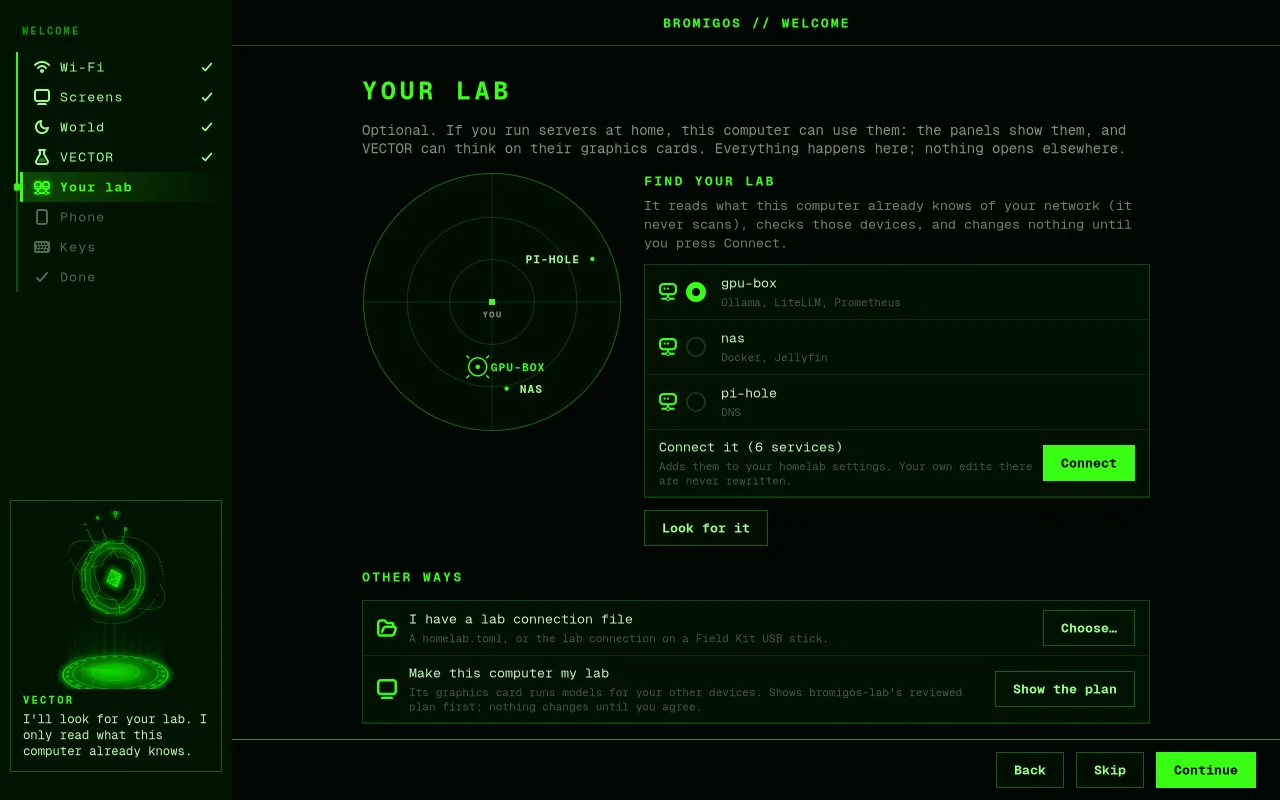
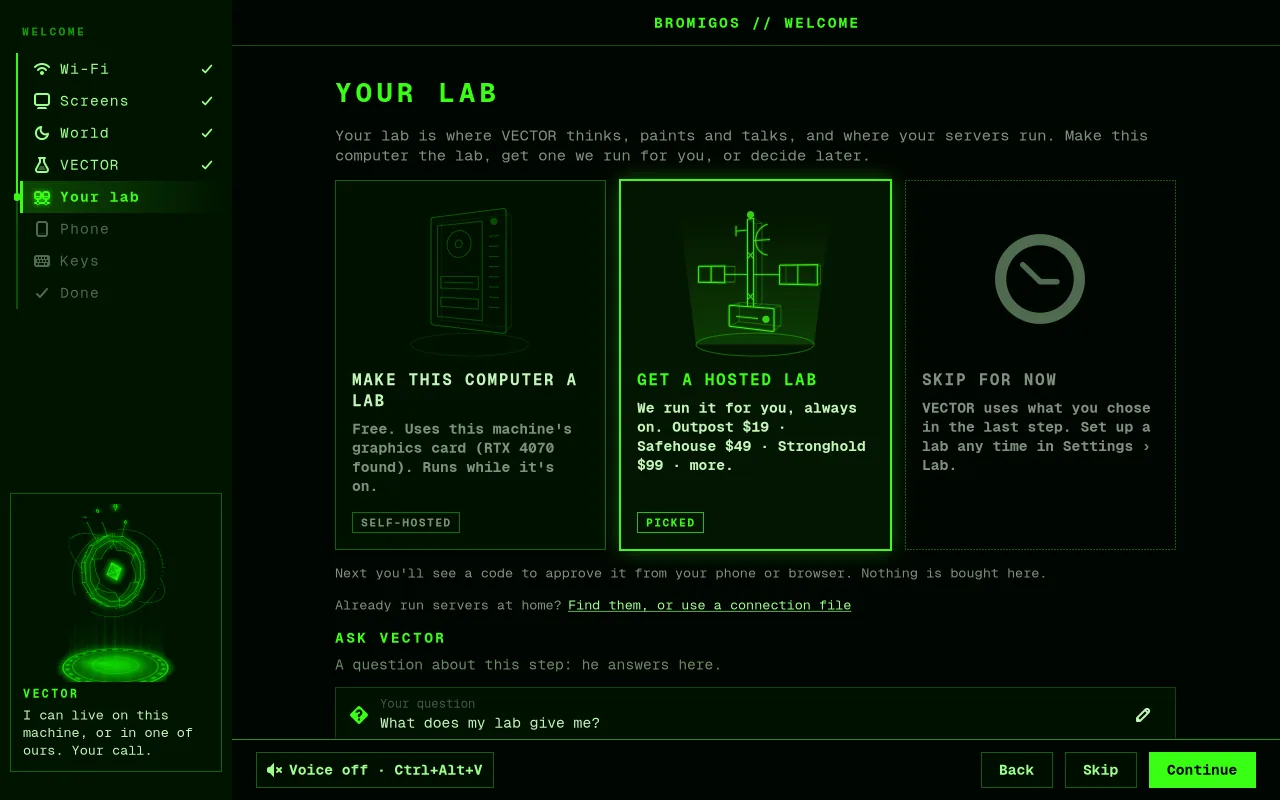
docs: the welcome tour's Your lab step: the three tiles, the link code, and its pictures
Claude-Session: https://claude.ai/code/session_01VEwEokvHM3hBoRnu81aYP9

diff --git a/manual/src/welcome-tour.md b/manual/src/welcome-tour.md
@@ -34,20 +34,50 @@ To take the tour again: Settings › About › **Welcome tour**, or run `bromigo
 
    ![VECTOR, your desk's AI: his brain (your lab, this computer, a service, not now) and his voice](images/welcome-tour-vector.webp)
 
-5. **Your lab**, all in the window:
-   - **Find** looks for your lab on your network. It only reads what this computer
+5. **Your lab**: where VECTOR thinks, paints and talks, and where your servers run. Three
+   tiles:
+   - **Make this computer a lab.** Free. It runs while this computer is on, and its
+     graphics card, if it has one, runs models for your other devices.
+   - **Get a hosted lab.** Bromigos runs it for you, always on: OUTPOST, SAFEHOUSE,
+     STRONGHOLD and more. You choose and pay on the website, not here.
+   - **Skip for now** goes straight on, like **Skip**. Set up a lab later from
+     Settings › Lab › **Your Bromigos lab**, or with `bromigos welcome --step lab`.
+
+   ![Your lab: make this computer a lab, get a hosted lab, or skip for now](images/welcome-tour-lab.webp)
+
+   Pick a lab tile and press **Continue**. The tour shows a QR code and a short code such
+   as `KX7-42Q`. Scan the QR code with your phone's camera or BRODEC, or open
+   **bromigos.org/link** on any phone or computer and type the code. Sign in to your
+   Bromigos account there and approve this computer. A password window opens first: the
+   lab bridge's data belongs to its service.
+
+   ![Get a hosted lab: the QR code on a phone, the code to type, and Waiting for you to approve](images/welcome-tour-lab-link.webp)
+
+   - The tour counts down how long the code still works. When it runs out, a new one
+     appears by itself.
+   - **This computer as a lab:** once you approve, the tour says **LINKED** and starts
+     the lab bridge, so VECTOR answers from this computer. Then open BRODEC on your phone
+     and check VECTOR's seven emoji (LAB › your lab): the website never vouches for the
+     lab's keys. With a graphics card of 8 GB or more, **Run models here too…** shows
+     bromigos-lab's reviewed plan for serving models from it. Nothing changes until you
+     agree.
+   - **A hosted lab:** once you approve, the tour says **APPROVED**. Finish choosing and
+     paying on the website. The lab appears in BRODEC once it's built.
+   - **Continue** unlocks once you approve. **Cancel** or **Back to the three choices**
+     stops the code, and **Skip** goes on without a lab.
+   - If it's turned down, takes too long, or the password window is closed, the tour says
+     so and offers **Try again**.
+   - Without BRODEC's lab bridge (`brodec-lab`), the tour offers **Install it** first.
+
+   Already run servers at home? **Find them, or use a connection file** opens Find my lab:
+   - **Look for it** looks for your lab on your network. It only reads what this computer
      already knows (devices that announce themselves, its list of nearby devices, your
      Tailscale devices); it never scans. It lists each lab machine with what it offers,
      such as models and services. Nothing is written until you press **Connect**.
    - **I have a lab connection file**: pick a `homelab.toml`, or the lab connection
      from a Field Kit stick.
-   - **Make this computer my lab**: only with a capable graphics card. It shows
-     bromigos-lab's reviewed plan for this computer before anything happens.
-   - **Skip.**
 
    Problems are said in plain words, with what to do.
-
-   ![Your lab: the machines found on the radar, with what each offers, and Connect](images/welcome-tour-lab.webp)
 
 6. **Pair your phone** with the BRODEC app: see [Pair your phone](phone.md).
 7. **The keys.** Super+Space, Super+Enter, Super+, and a few more. Press one and its card
@@ -110,10 +140,12 @@ yourself. The tour keeps no settings of its own.
 | VECTOR: This computer | `bromigos setup vector --vector ollama --model MODEL` (after Ollama and the model are installed) |
 | VECTOR: Your lab, A service | `bromigos setup vector --vector openai --base-url URL/v1 [--model MODEL] [--api-key-file FILE]` |
 | VECTOR's voice | `bromigos setup voice --voice off\|cpu\|gpu` |
+| Your lab: Make this computer a lab | `bromigos lab link` (the tour runs `brodec-lab connect --json` through pkexec) |
+| Your lab: Get a hosted lab | `bromigos lab link --intent hosted` |
 | Your lab: Find | `bromigos setup homelab --find --yes --json --print` (what it found, nothing written) |
 | Your lab: Connect | `bromigos setup homelab --find --yes` |
 | Your lab: a file | `bromigos setup homelab --homelab FILE` |
-| Make this computer my lab | `bromigos lab provision plan --repo DIR --preset core` (the plan) |
+| Your lab: Run models here too… | `bromigos lab provision plan --repo DIR --preset core` (the plan) |
 
 To script the whole tour, run those commands in order, or put the answers in a file:
 `bromigos setup --answers FILE` takes the same TOML the installer's first-run answers use
@@ -123,7 +155,8 @@ The tour opens once because the installer leaves `~/.local/state/bromigos/welcom
 the session's autostart runs `bromigos welcome --if-pending`, which does nothing without
 it. Finishing removes the file and writes what you chose to
 `~/.local/state/bromigos/welcome.json`. `bromigos welcome --step STEP` opens it on one
-step; `bromigos welcome --render DIR` draws every step to pictures and exits.
+step; `bromigos welcome --render DIR` draws every step to pictures and exits
+(`tools/welcome/render.sh` in the repository does it offscreen).
 
 The voice guide keeps its setting in `~/.local/state/bromigos/voice-guide.json`
 (`enabled` and `muted`). Its lines and clips are in `/usr/share/bromigos/guide/`. The

diff --git a/docs/ASSETS.md b/docs/ASSETS.md
@@ -393,6 +393,11 @@ no likeness and no lab hosts.
   `BROMIGOS_INSTALLER_RENDER_ONLY=server-`), and the server's first-start tour
   (`bromigos welcome-console --render DIR --size 120x35`, its sample data). Example
   addresses and keys only.
+- **`welcome-tour-lab.webp`** and **`welcome-tour-lab-link.webp`**, on The welcome tour
+  page. The welcome tour's Your lab step (its three tiles) and its link code for a hosted
+  lab, drawn offscreen in a headless weston with the tour's recorded events
+  (`tools/welcome/render.sh`, `welcome-lab` and `welcome-lab-hosted`). Example code and
+  card name only; the holograms are drawn in code.
 - **`live-welcome-card.webp`**, on the Install and The installer pages. The live desktop's
   welcome card, captured from the install stick in a VM (host `bromigos-live`).
 - **`fieldkit-boot-menu.webp`**, on the Field Kit page. Field Kit's boot menu as GRUB draws

diff --git a/docs/lab.md b/docs/lab.md
@@ -861,6 +861,11 @@ For power users:
   `rate_limited`, ...), then `service`. `brodec-lab connect --json` prints the same
   without the `service` event; the welcome tours call it through `lab_link_argv()` in
   `lib/bromigos_firstrun.py`.
+- The desktop's welcome tour does the same on its Your lab step, in the window: **Make
+  this computer a lab** or **Get a hosted lab**, then the QR code and the short code. It
+  runs the bridge through pkexec and stops it when you cancel, and starts the service
+  after pairing. Settings › Lab › **Your Bromigos lab** opens that step again
+  (`bromigos welcome --step lab`).
 - Exit codes: 0 linked (or approved for a hosted lab), 1 not linked, 3 the bridge isn't
   installed, 130 cancelled.
 

diff --git a/CONTRIBUTING.md b/CONTRIBUTING.md
@@ -156,6 +156,7 @@ a window:
 | The manual's installer, bromigOS Server and Field Kit pictures | `tools/screenshots/install-pictures.sh` |
 | The live layer: the background, a world, a deck, the screensaver | `live/tools/offscreen.py` |
 | The Settings window, one picture per page and theme | `tools/settings/render.sh` |
+| The welcome tour, every step and the Your lab step's states | `tools/welcome/render.sh` |
 | The theme switcher, at several screen sizes | `tools/theme-switcher/render.sh` |
 | Zettlr in a theme | `tools/zettlr/render.sh` |
 | The app launcher | `tools/launcher/render.py` |

diff --git a/manual/src/lab.md b/manual/src/lab.md
@@ -215,6 +215,8 @@ server rack, lit by the same readings. See [Holograms](holograms.md#lab-deck).
 
 **Settings › Lab** shows the same summary, your models, recent jobs, the doctor, and where
 AI runs.
+Its **Your Bromigos lab** row opens the welcome tour's Your lab step, to make this
+computer a lab or get a hosted lab ([The welcome tour](welcome-tour.md)).
 
 ## Make things on your lab
 
